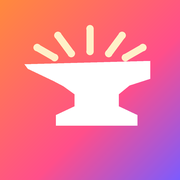
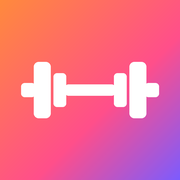
Dočasný obecný název Gym místo Setsmith
- Název Gym v aplikaci, manifestu PWA, titulku, úvodním průvodci,
  obrázku ke sdílení, README a názvech exportovaných souborů
- Ikona s činkou na barevném přechodu (bez kovadliny)
- Názvy úrovní zpět na obecné (Pravidelák, Bojovník, Silák…)

Claude-Session: https://claude.ai/code/session_01296oKsrPpCyn24my3tqukZ

Changed region(s): [[0.1111, 0.1667, 0.8889, 0.7222], [0.4722, 0.1389, 0.5278, 0.3056]]

diff --git a/index.html b/index.html
@@ -4,13 +4,13 @@
     <meta charset="UTF-8" />
     <meta name="viewport" content="width=device-width, initial-scale=1, viewport-fit=cover, interactive-widget=resizes-content" />
     <meta name="theme-color" content="#0c0e14" />
-    <meta name="description" content="Setsmith – ukuj si sílu. Deník tréninků s chytrým trenérem, úrovněmi a výzvami." />
-    <meta name="apple-mobile-web-app-title" content="Setsmith" />
+    <meta name="description" content="Gym – deník tréninků s chytrým trenérem, úrovněmi a výzvami." />
+    <meta name="apple-mobile-web-app-title" content="Gym" />
     <meta name="apple-mobile-web-app-capable" content="yes" />
     <meta name="apple-mobile-web-app-status-bar-style" content="black-translucent" />
     <link rel="icon" href="./icon.svg" type="image/svg+xml" />
     <link rel="apple-touch-icon" href="./apple-touch-icon.png" />
-    <title>Setsmith</title>
+    <title>Gym</title>
   </head>
   <body>
     <div id="root"></div>

diff --git a/src/pages/Settings.tsx b/src/pages/Settings.tsx
@@ -266,7 +266,7 @@ export default function SettingsPage() {
         <button
           className="list-item"
           onClick={() => {
-            download(`setsmith-zaloha-${today}.json`, JSON.stringify(exportBackup()), 'application/json');
+            download(`gym-zaloha-${today}.json`, JSON.stringify(exportBackup()), 'application/json');
             toast('Záloha stažena');
           }}
         >
@@ -285,7 +285,7 @@ export default function SettingsPage() {
         </button>
         <button
           className="list-item"
-          onClick={() => download(`setsmith-treninky-${today}.csv`, exportCsv(workouts, exMap), 'text/csv')}
+          onClick={() => download(`gym-treninky-${today}.csv`, exportCsv(workouts, exMap), 'text/csv')}
           disabled={!workouts.length}
         >
           <div className="avatar">📄</div>

diff --git a/src/pages/Onboarding.tsx b/src/pages/Onboarding.tsx
@@ -90,10 +90,10 @@ export default function Onboarding() {
           <div className="center">
             <img src="./icon-192.png" alt="" width={96} height={96} style={{ borderRadius: 28, boxShadow: 'var(--glow)' }} />
             <h1 style={{ fontSize: 36, marginTop: 20 }}>
-              Vítej v <span className="grad-text">Setsmith</span>!
+              Vítej v <span className="grad-text">Gym</span>!
             </h1>
             <p className="muted" style={{ fontSize: 17, marginTop: 8 }}>
-              Ukuj si sílu. Každou sérií, každým tréninkem. Zapisuj, sbírej XP a sleduj, jak sílíš.
+              Tvůj parťák do posilovny. Zapisuj tréninky, sbírej XP a sleduj, jak sílíš.
             </p>
           </div>
           <div className="stack" style={{ marginTop: 28 }}>

diff --git a/src/pages/WorkoutDetail.tsx b/src/pages/WorkoutDetail.tsx
@@ -107,13 +107,13 @@ export default function WorkoutDetail() {
         levelTitle: game.level.title,
         streak: game.streak.streak,
       });
-      const file = new File([blob], 'setsmith-trenink.png', { type: 'image/png' });
+      const file = new File([blob], 'gym-trenink.png', { type: 'image/png' });
       if (navigator.canShare?.({ files: [file] })) await navigator.share({ files: [file], title: w.name });
       else {
         const url = URL.createObjectURL(blob);
         const a = document.createElement('a');
         a.href = url;
-        a.download = 'setsmith-trenink.png';
+        a.download = 'gym-trenink.png';
         a.click();
         setTimeout(() => URL.revokeObjectURL(url), 1000);
         toast('Obrázek stažen');

diff --git a/src/lib/gamification.ts b/src/lib/gamification.ts
@@ -129,11 +129,11 @@ export interface LevelInfo {
 const TITLES: [number, string, string][] = [
   [1, 'Nováček', '🌱'],
   [5, 'Učeň', '🔰'],
-  [10, 'Tovaryš', '🔨'],
-  [15, 'Kovář', '⚒'],
-  [20, 'Zbrojíř', '🛡'],
-  [30, 'Mistr kovář', '🔥'],
-  [40, 'Velmistr', '⚔'],
+  [10, 'Pravidelák', '💪'],
+  [15, 'Bojovník', '⚔'],
+  [20, 'Silák', '🦾'],
+  [30, 'Titán', '🗿'],
+  [40, 'Bestie', '🦍'],
   [50, 'Legenda', '👑'],
 ];
 

diff --git a/vite.config.ts b/vite.config.ts
@@ -10,8 +10,8 @@ export default defineConfig({
       registerType: 'autoUpdate',
       includeAssets: ['icon.svg', 'apple-touch-icon.png'],
       manifest: {
-        name: 'Setsmith – ukuj si sílu',
-        short_name: 'Setsmith',
+        name: 'Gym – deník tréninků',
+        short_name: 'Gym',
         description: 'Zapisuj tréninky, sleduj progres a překonávej rekordy.',
         lang: 'cs',
         theme_color: '#0c0e14',

diff --git a/src/pages/Profile.tsx b/src/pages/Profile.tsx
@@ -84,7 +84,7 @@ export default function Profile() {
             <span className="n">Lv {game.level.level}</span>
           </div>
           <div className="grow">
-            <h1 style={{ fontSize: 26 }}>{settings.name || 'Setsmith'}</h1>
+            <h1 style={{ fontSize: 26 }}>{settings.name || 'Můj profil'}</h1>
             <div className="bold" style={{ opacity: 0.9 }}>
               {game.level.title}
             </div>

diff --git a/src/lib/shareCard.ts b/src/lib/shareCard.ts
@@ -55,7 +55,7 @@ export async function renderShareCard(
 
   ctx.fillStyle = '#fff';
   ctx.font = font(900, 40);
-  ctx.fillText('⚒ SETSMITH', 70, 110);
+  ctx.fillText('💪 GYM', 70, 110);
   ctx.font = font(700, 32);
   ctx.globalAlpha = 0.85;
   ctx.fillText(fmtDate(w.startedAt, { weekday: 'long', day: 'numeric', month: 'long', year: 'numeric' }), 70, 160);

diff --git a/src/pages/More.tsx b/src/pages/More.tsx
@@ -31,7 +31,7 @@ export default function More() {
           </Link>
         ))}
       </div>
-      <div className="center tiny muted mt-l">Setsmith · Ukuj si sílu · data jsou uložená jen v tomto zařízení</div>
+      <div className="center tiny muted mt-l">Gym · data jsou uložená jen v tomto zařízení</div>
     </div>
   );
 }

diff --git a/README.md b/README.md
@@ -1,4 +1,6 @@
-# Setsmith – ukuj si sílu ⚒
+# Gym – deník tréninků 💪
+
+> Pracovní název. Finální značka se teprve vybere.
 
 Mobilní webová aplikace (PWA) na zapisování tréninků v posilovně, inspirovaná aplikací Strong.
 Funguje offline, dá se nainstalovat na plochu telefonu a všechna data zůstávají v zařízení (IndexedDB).
